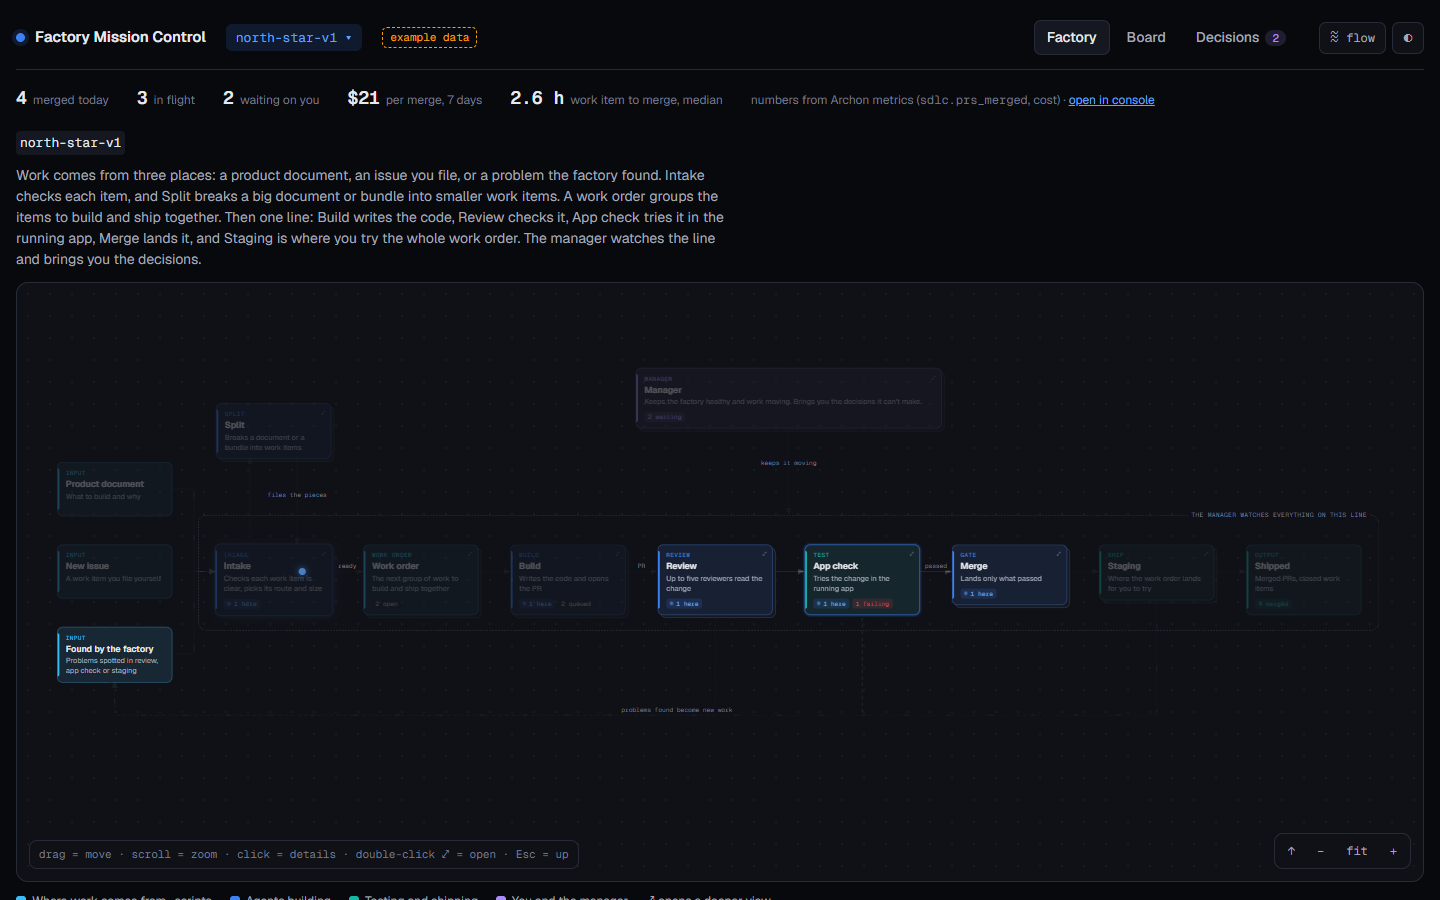
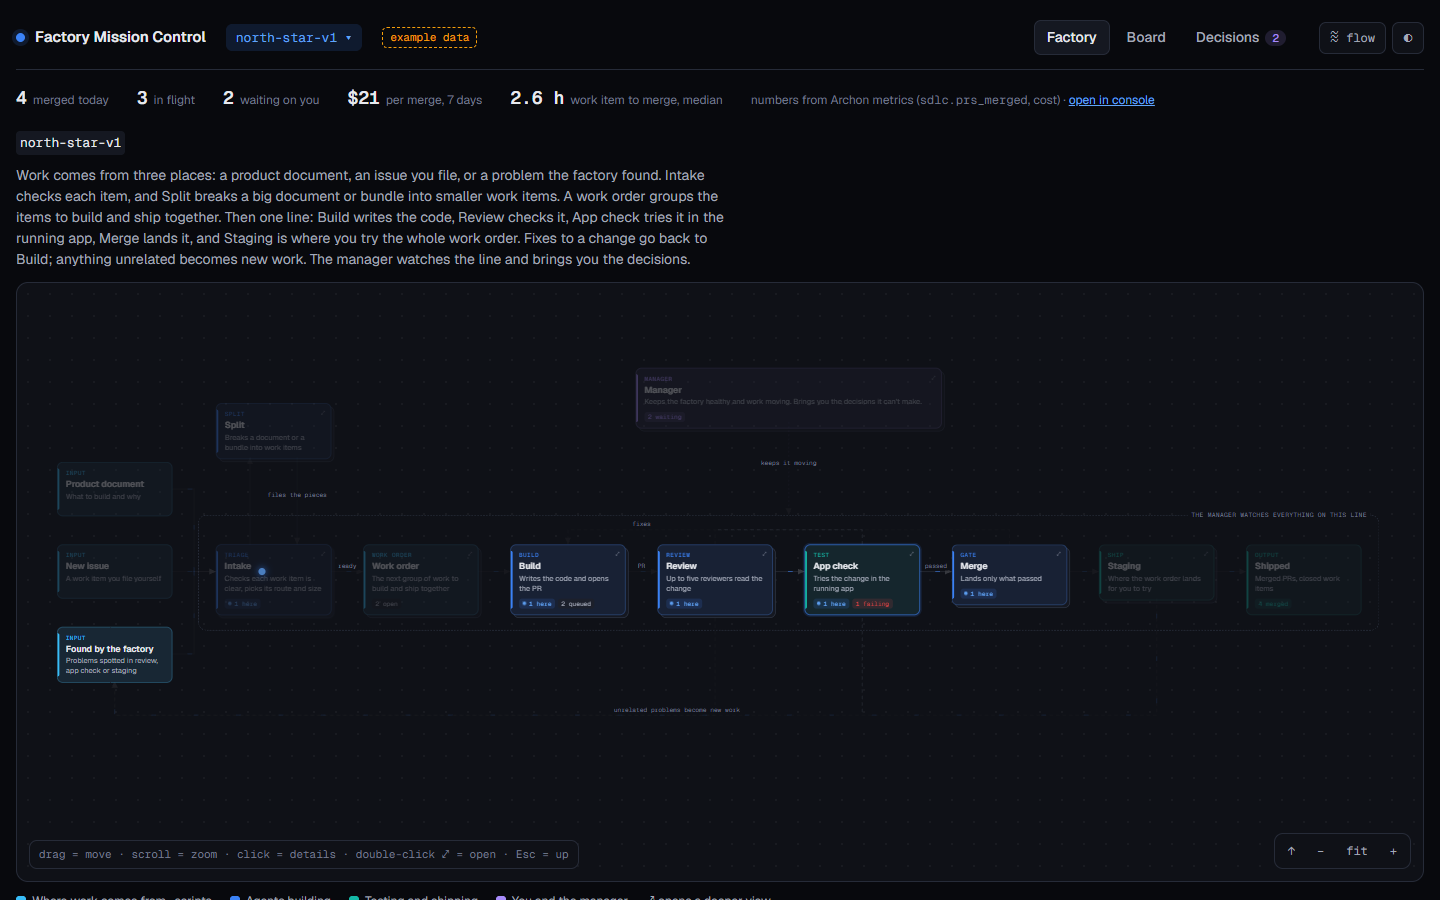
Owner: fixes go back to Build, unrelated problems become new work
The home map had no line back to Build, and it promised that App check and Staging create new work when neither did.

The mockup adds the fixes line from Review, App check and Merge, and rewords the new-work line. The factory package now makes that line true: an app check records an unrelated problem, and a failed deployment records itself, for the discoveries workflow to file.

Changed region(s): [[0.0, 0.2489, 0.5, 0.3111], [0.3438, 0.5911, 0.4375, 0.6844]]

diff --git a/docs/design/v2/mockup.html b/docs/design/v2/mockup.html
@@ -297,7 +297,7 @@ function count(f){return T.filter(f).length}
 
 /* ---------- the hand-authored map ---------- */
 var V={
-root:{title:"north-star-v1",minH:640,caption:"Work comes from three places: a product document, an issue you file, or a problem the factory found. Intake checks each item, and Split breaks a big document or bundle into smaller work items. A work order groups the items to build and ship together. Then one line: Build writes the code, Review checks it, App check tries it in the running app, Merge lands it, and Staging is where you try the whole work order. The manager watches the line and brings you the decisions.",
+root:{title:"north-star-v1",minH:640,caption:"Work comes from three places: a product document, an issue you file, or a problem the factory found. Intake checks each item, and Split breaks a big document or bundle into smaller work items. A work order groups the items to build and ship together. Then one line: Build writes the code, Review checks it, App check tries it in the running app, Merge lands it, and Staging is where you try the whole work order. Fixes to a change go back to Build; anything unrelated becomes new work. The manager watches the line and brings you the decisions.",
  nodes:[
   {id:"prd",x:0,y:160,k:"input",kl:"input",t:"Product document",s:"What to build and why"},
   {id:"split",x:270,y:60,k:"stage",kl:"split",t:"Split",s:"Breaks a document or a bundle into work items",open:"split"},
@@ -320,9 +320,12 @@ root:{title:"north-star-v1",minH:640,caption:"Work comes from three places: a pr
   {f:"split",t:"intake",nf:1,l:"files the pieces",d:function(N){var a=N.split,b=N.intake;return "M"+(a.x+138)+","+(a.y+H)+"V"+b.y}},
   {f:"intake",t:"order",l:"ready"},{f:"order",t:"build"},{f:"build",t:"review",l:"PR"},{f:"review",t:"app"},{f:"app",t:"merge",l:"passed"},{f:"merge",t:"deploy"},{f:"deploy",t:"out"},
   {f:"mgr",t:"review",c:"ask",nf:1,l:"keeps it moving",d:function(N){var a=N.mgr;return "M"+(a.x+260)+","+(a.y+H)+"V250"}},
+  {f:"review",t:"build",c:"back",nf:1,l:"fixes",d:function(N){var a=N.review,b=N.build;return "M"+(a.x+W/2)+","+a.y+"V275H"+(b.x+W/2)+"V"+b.y}},
+  {f:"app",t:"build",c:"back",nf:1,nm:1,d:function(N){var a=N.app,b=N.review;return "M"+(a.x+W/2)+","+a.y+"V275H"+(b.x+W/2)}},
+  {f:"merge",t:"build",c:"back",nf:1,nm:1,d:function(N){var a=N.merge,b=N.review;return "M"+(a.x+W/2)+","+a.y+"V275H"+(b.x+W/2)}},
   {f:"review",t:"disc",c:"back",nf:1,d:function(N){var a=N.review,b=N.disc;return "M"+(a.x+W/2)+","+(a.y+H)+"V590H"+(b.x+W/2)+"V"+(b.y+H)}},
   {f:"app",t:"disc",c:"back",nf:1,nm:1,d:function(N){var a=N.app;return "M"+(a.x+W/2)+","+(a.y+H)+"V590"}},
-  {f:"deploy",t:"disc",c:"back",l:"problems found become new work",d:function(N){var a=N.deploy,b=N.disc;return "M"+(a.x+W/2)+","+(a.y+H)+"V590H"+(b.x+W/2)+"V"+(b.y+H)}}
+  {f:"deploy",t:"disc",c:"back",l:"unrelated problems become new work",d:function(N){var a=N.deploy,b=N.disc;return "M"+(a.x+W/2)+","+(a.y+H)+"V590H"+(b.x+W/2)+"V"+(b.y+H)}}
  ],
  tour:["prd","intake","order","build","review","app","merge","deploy","out"]
 },
@@ -462,15 +465,15 @@ var D={
  order:{when:["Before the build queue starts on the next group of work."],what:["A group of work items that go through the factory together, for one release, one experiment or one branch.","It can hold pieces of a document, bug fixes, anything ready. It can also be one item."],how:["You, or the manager for you, choose what goes in, so the whole backlog does not start at once.","You choose where it lands: main, dev, a release branch or staging.","Being built now. Until it lands, the build queue takes the next ready item on its own."]},
  intake:{when:["On every new, edited or relabelled work item (GitHub event)."],what:["Decides if the work item is ready, and which route it takes: deliver, plan first, investigate, or Split when it is too big for one build."],how:["Trust check against maintainers.json, then triage. Intake is the only step that closes work items."],bts:{workflows:"archon-intake → archon-triage-block",nodes:"facts · triage(policy, triage, verdict) · outcome",models:"@triage",source:".archon/workflows/sdlc/intake/"}},
  build:{when:["Whenever a triaged work item is ready, one work item per run, most urgent first."],what:["Takes a triaged work item to a reviewed PR with green CI.","Up to 2 rounds per work item. Each round can deliver up to 4 times."],how:["Brief, then plan or investigate if needed, then deliver, then an agent decides done, another round, or ask you. It asks early when a change has grown past its size or stopped converging."],bts:{workflows:"archon-build-queue → archon-ship-block → archon-deliver-block → archon-review-block",nodes:"68 when fully expanded",models:"@planner · @investigator · @implementer · @reviewer",source:".archon/workflows/sdlc/build-queue/"}},
- app:{when:["On every open PR with no result yet at its current commit.","Depth scales with the work item's size and whether it touches the front end."],what:["Uses the running app the way a person would and reports what it saw.","Its commit status must be green before Merge will land the PR."],how:["Tests the PR merged with the latest main, not the branch alone.","Every claim must cite a file written during this check, sealed by a script.","A result stands until the PR gets a new commit, so landing another PR does not undo it."],bts:{workflows:"factory-app-check",nodes:"config · select · pending · scope · policy · prepare · check · evidence · publish · finalize · cleanup",models:"@factory-reviewer",source:".archon/workflows/factory/app-check/"}},
+ app:{when:["On every open PR with no result yet at its current commit.","Depth scales with the work item's size and whether it touches the front end."],what:["Uses the running app the way a person would and reports what it saw.","Its commit status must be green before Merge will land the PR."],how:["A problem with this change goes back to Build, and anything unrelated becomes new work.","Tests the PR merged with the latest main, not the branch alone.","Every claim must cite a file written during this check, sealed by a script.","A result stands until the PR gets a new commit, so landing another PR does not undo it."],bts:{workflows:"factory-app-check",nodes:"config · select · pending · scope · policy · prepare · check · evidence · publish · finalize · cleanup",models:"@factory-reviewer",source:".archon/workflows/factory/app-check/"}},
  merge:{when:["When PRs are Ready, all of them in one sweep."],what:["Lands only what is proven, sends the rest back with a brief, asks you on borderline cases."],how:["The agent decides; a script merges, and only if the Ready verdict, every check and the default branch are green at the PR's head."],bts:{workflows:"archon-merge-queue",nodes:"facts · sweep · record · retriage · ask · ruling",models:"large",source:".archon/workflows/sdlc/merge-queue/scripts/gate.ts"}},
- deploy:{when:["After a work order's last merge, on the new revision of its target."],what:["Puts the merged build where you can try it.","You choose where a work order lands. Staging is the one we recommend."],how:["Health check plus revision read-back, so a stale deploy fails loudly."],bts:{workflows:"factory-deploy",nodes:"preflight · deploy · verify",models:"@factory-deployer",source:".archon/workflows/factory/deploy/"}},
- review:{when:["Every time Build pushes a change to the PR."],what:["A quick agent picks the reviewers this change earns. Up to five each read the change for one thing: how parts fit together, correctness, tests, error handling, docs.","One agent combines what they found into a single comment: Ready, or a list of fixes."],how:["Fixes go back to Build. Merge only trusts a Ready comment on the latest commit."],bts:{workflows:"archon-review-block (inside the build queue's delivery rounds)",nodes:"scope · route · up to 5 lenses · synthesize · publish",models:"@reviewer · @review-<lens>",source:".archon/workflows/sdlc/review/"}},
+ deploy:{when:["After a work order's last merge, on the new revision of its target."],what:["Puts the merged build where you can try it.","You choose where a work order lands. Staging is the one we recommend."],how:["Health check plus revision read-back, so a stale deploy fails loudly.","The PR has already merged, so a failed deploy becomes new work."],bts:{workflows:"factory-deploy",nodes:"preflight · deploy · verify",models:"@factory-deployer",source:".archon/workflows/factory/deploy/"}},
+ review:{when:["Every time Build pushes a change to the PR."],what:["A quick agent picks the reviewers this change earns. Up to five each read the change for one thing: how parts fit together, correctness, tests, error handling, docs.","One agent combines what they found into a single comment: Ready, or a list of fixes."],how:["Fixes go back to Build, and anything unrelated becomes new work. Merge only trusts a Ready comment on the latest commit."],bts:{workflows:"archon-review-block (inside the build queue's delivery rounds)",nodes:"scope · route · up to 5 lenses · synthesize · publish",models:"@reviewer · @review-<lens>",source:".archon/workflows/sdlc/review/"}},
  issue:{when:["Whenever you or a teammate files one."],what:["A single work item, written with the six elements: problem, why, why now, outcome, invariants, acceptance."],how:["Intake checks it like any other work item. A work item missing the six elements comes to you as a question."]},
  out:{what:["Merged PRs and the work items Intake closed as delivered."]},
  you:{when:["Whenever the factory reaches a decision it should not make alone."],what:["Examples: a work item too vague to build, a merge that changes the database, a build that keeps growing in scope, a problem that may or may not deserve a work item.","Each question shows the recommended answer and the other options, and you can always write your own."],how:["Answering resumes the paused run. The answer is written back into the work item as a dated ruling."],bts:{workflows:"wait: attention nodes in intake, build-queue, merge-queue, discoveries",source:"GET /api/runs/attention"}},
  mgr:{when:["All the time, while the factory runs. You can also talk to it directly."],what:["Health: finds runs that are stuck, silent or failing and reports them.","Questions: answers the ones your written rules already cover, for example “dependency updates can merge without asking”.","Everything else it passes to you with a recommendation."],how:["Your rules are plain text files (triage, build, merge) in the repo.","It never cancels a run and never decides what the product should be."],bts:{workflows:"factory-manager",models:"@factory-manager",source:".archon/workflows/factory/manager/ · skills/factory-manager/SKILL.md"}},
- disc:{when:["After review, app check or staging notices something it was not asked to fix."],what:["Each problem becomes a new work item, or is dropped if it is not real. Unsure ones come to you."],how:["Small findings are batched into one cleanup work item per area. New work items go through Intake like any other."],bts:{workflows:"archon-discoveries",nodes:"facts · decide · outcome · ask · answer"}}
+ disc:{when:["After review or app check notices something unrelated to the change it is checking, or a deployment fails."],what:["Each problem becomes a new work item, or is dropped if it is not real. Unsure ones come to you."],how:["Small findings are batched into one cleanup work item per area. New work items go through Intake like any other."],bts:{workflows:"archon-discoveries",nodes:"facts · decide · outcome · ask · answer"}}
 };
 
 /* ---------- state ---------- */

diff --git a/.archon/workflows/factory/deploy/scripts/verify.ts b/.archon/workflows/factory/deploy/scripts/verify.ts
@@ -1,5 +1,5 @@
-import { existsSync, statSync } from "node:fs";
-import { basename } from "node:path";
+import { existsSync, mkdirSync, statSync, writeFileSync } from "node:fs";
+import { basename, join } from "node:path";
 import { env, jsonEnv } from "../../.shared/utils.ts";
 
 export function verifyDeployment(requested: string, reported: string, deployed: string, health: string, evidence: string[], startedAt: number) {
@@ -16,7 +16,29 @@ export function verifyDeployment(requested: string, reported: string, deployed: 
   return { deployed: true, revision: deployed, health, evidence_files: evidence };
 }
 
-if (import.meta.main) console.log(JSON.stringify(verifyDeployment(
-  env("requested_revision"), env("reported_requested_revision"), env("deployed_revision"), env("health_status"),
-  jsonEnv<string[]>("evidence_files", []), Number(env("started_at")),
-)));
+/** A failed deployment has no open pull request to return to, so it is recorded for the discoveries workflow to file as new work. */
+export function recordFailedDeployment(artifacts: string, requested: string, reason: string, evidence: string[]): void {
+  const dir = join(artifacts, "discoveries");
+  mkdirSync(dir, { recursive: true });
+  writeFileSync(join(dir, "deploy.json"), JSON.stringify([{
+    title: `Deploying ${requested.slice(0, 7) || "the requested revision"} failed`,
+    claim: reason,
+    evidence: [`requested revision: ${requested || "none"}`, ...evidence],
+    relation: "unrelated",
+    source_node: "deploy",
+  }], null, 2));
+}
+
+if (import.meta.main) {
+  const evidence = jsonEnv<string[]>("evidence_files", []);
+  try {
+    console.log(JSON.stringify(verifyDeployment(
+      env("requested_revision"), env("reported_requested_revision"), env("deployed_revision"), env("health_status"),
+      evidence, Number(env("started_at")),
+    )));
+  } catch (error) {
+    const reason = error instanceof Error ? error.message : String(error);
+    if (process.env.ARTIFACTS_DIR) recordFailedDeployment(process.env.ARTIFACTS_DIR, env("requested_revision"), reason, evidence);
+    throw error;
+  }
+}

diff --git a/.archon/workflows/factory/deploy/__tests__/verify.test.ts b/.archon/workflows/factory/deploy/__tests__/verify.test.ts
@@ -1,8 +1,8 @@
 import { expect, test } from "bun:test";
-import { mkdtempSync, utimesSync, writeFileSync } from "node:fs";
+import { mkdtempSync, readFileSync, utimesSync, writeFileSync } from "node:fs";
 import { tmpdir } from "node:os";
 import { join } from "node:path";
-import { verifyDeployment } from "../scripts/verify.ts";
+import { recordFailedDeployment, verifyDeployment } from "../scripts/verify.ts";
 
 test("deployment verification accepts fresh exact evidence and rejects a revision mismatch", () => {
   const root = mkdtempSync(join(tmpdir(), "factory-deploy-test-"));
@@ -14,4 +14,16 @@ test("deployment verification accepts fresh exact evidence and rejects a revisio
   const revision = "0123456789abcdef0123456789abcdef01234567";
   expect(verifyDeployment(revision, revision, revision, "healthy", [report, health], startedAt).deployed).toBe(true);
   expect(() => verifyDeployment(revision, revision, "ffffffffffffffffffffffffffffffffffffffff", "healthy", [report, health], startedAt)).toThrow("revision mismatch");
+});
+
+test("a failed deployment leaves one record the discoveries workflow can read", () => {
+  const root = mkdtempSync(join(tmpdir(), "factory-deploy-test-"));
+  const revision = "0123456789abcdef0123456789abcdef01234567";
+  recordFailedDeployment(root, revision, "deployment health check was unhealthy", ["report.md"]);
+  const records = JSON.parse(readFileSync(join(root, "discoveries", "deploy.json"), "utf8"));
+  expect(records).toHaveLength(1);
+  expect(records[0].title).toBe("Deploying 0123456 failed");
+  expect(records[0].claim).toBe("deployment health check was unhealthy");
+  expect(records[0].evidence).toContain("report.md");
+  expect(records[0].relation).toBe("unrelated");
 });

diff --git a/.archon/workflows/factory/app-check/commands/check.md b/.archon/workflows/factory/app-check/commands/check.md
@@ -24,6 +24,8 @@ Changed files: `$INPUTS.files`. Depth: `$INPUTS.depth`. App config: `$INPUTS.con
 
 4. Save screenshots, logs, and observations under `$ARTIFACTS_DIR/app-check/`. Open every screenshot you cite. Close only browser sessions you opened. Stop the app only with `bun .archon/workflows/factory/app-check/scripts/app-process.ts stop`; it verifies the recorded identity before termination and retires the record only after the owned process has exited. Do not use `kill`, `taskkill`, `Stop-Process`, or any other PID-based fallback. The workflow cleanup node calls the same helper if this checker exits early.
 
+A problem this change causes is a FAIL line. A real problem you can prove that has nothing to do with this change, in something it did not touch, is not a line and never fails this check: preserve it so it becomes new work. Create `$ARTIFACTS_DIR/discoveries/app-check.json` as a JSON array. Each record contains only `title`, `claim`, `evidence` (an array of concrete facts: a file you saved under `$ARTIFACTS_DIR/app-check/`, a `file:line`, or a command's result), `relation` (`unrelated`) and `source_node` (`app-check`). State what you saw, not how to fix it. Write no file when you proved nothing; a slow screen on a loaded machine is not a discovery.
+
 Write `report.md` and `result.json` there. `result.json` is `{ "overall": "PASS|FAIL", "lines": [string...], "summary": string }`. Every line must be exactly:
 
 `C<n>  PASS|FAIL|INCOMPLETE  <one sentence>  evidence: <file>`
